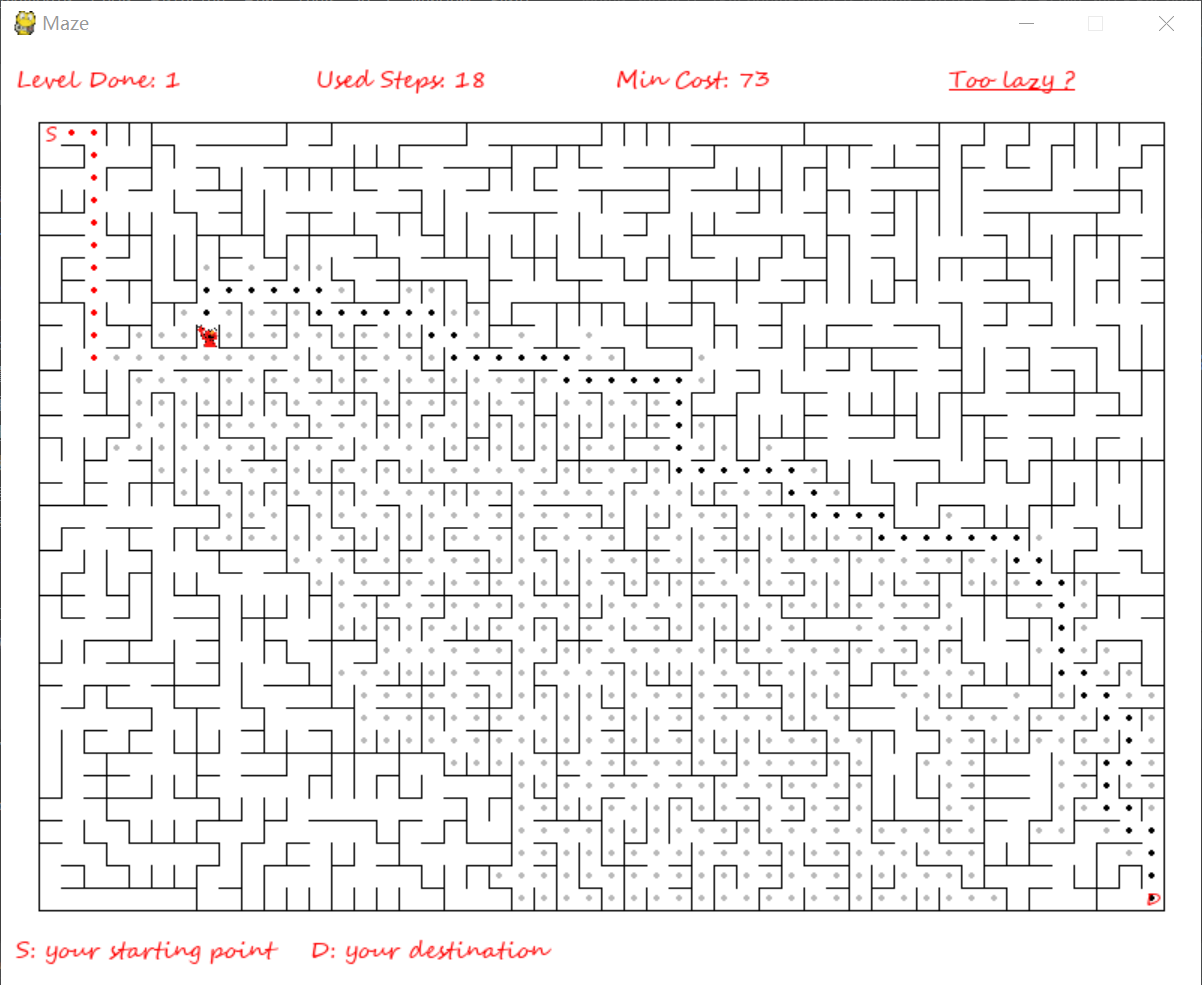
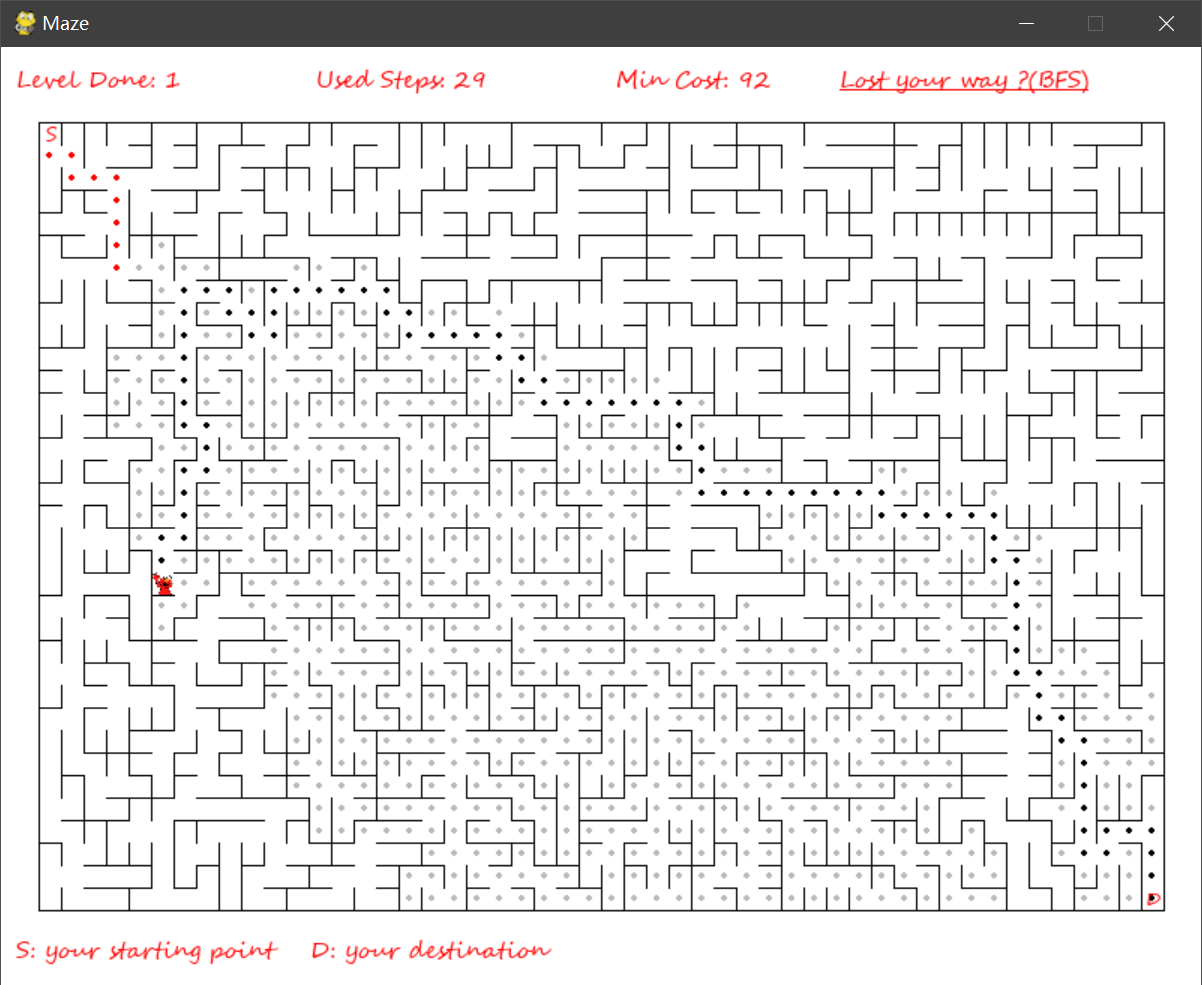
Record 13 更改描述形式 README

diff --git a/modules/misc.py b/modules/misc.py
@@ -11,6 +11,14 @@ import pygame.font
 import pygame.event
 import pygame.draw
 
+
+def read_cfg(cfg):
+    cfgs = cfg.read_cfg()
+    cfg.MAZESIZE = cfgs['MAZESIZE']
+    cfg.STARTPOINT = cfgs['STARTPOINT']
+    cfg.DESTINATION = cfgs['DESTINATION']
+
+
 '''Label: 在指定位置（中心）显示文字'''
 
 
@@ -59,14 +67,14 @@ def check_setted(cfg):
     if g:
         x, y = g.group(1), g.group(2)
         cfg['Starting point'] = [int(x), int(y)]
-        if setted[1] and setted[2] and 0 <= cfg['Starting point'][0] < cfg['Rows'] and 0 <= cfg['Starting point'][1] < \
+        if setted[1] and setted[2] and 0 < cfg['Starting point'][0] <= cfg['Rows'] and 0 < cfg['Starting point'][1] <= \
                 cfg['Cols']:
             setted[3] = True
     g = pattern.match(cfg['Destination'])
     if g:
         x, y = g.group(1), g.group(2)
         cfg['Destination'] = [int(x), int(y)]
-        if setted[1] and setted[2] and 0 <= cfg['Destination'][0] < cfg['Rows'] and 0 <= cfg['Destination'][1] < cfg[
+        if setted[1] and setted[2] and 0 < cfg['Destination'][0] <= cfg['Rows'] and 0 < cfg['Destination'][1] <= cfg[
             'Cols']:
             setted[4] = True
     return setted
@@ -100,6 +108,7 @@ def InputBox(screen, font, focus, question, ans, hint, color, position, max):
 
 
 def setting(screen, cfg):
+    read_cfg(cfg)
     # ----字体样式
     font_title = pygame.font.SysFont(cfg.FONT, 80)  # 标题字体
     font = pygame.font.SysFont(cfg.FONT2, 45)  # 输入框字体
@@ -190,6 +199,8 @@ def setting(screen, cfg):
                             (cfg.SCREENSIZE[0] - cfg.MAZESIZE[1] * cfg.BLOCKSIZE) // 2,
                             (cfg.SCREENSIZE[1] - cfg.MAZESIZE[0] * cfg.BLOCKSIZE) // 2)
                         cfg.write_cfg()  # 将新配置写入配置文件
+                        cfg.STARTPOINT = [cfg_now['Starting point'][0] - 1, cfg_now['Starting point'][1] - 1]
+                        cfg.DESTINATION = [cfg_now['Destination'][0] - 1, cfg_now['Destination'][1] - 1]
                         return key
                 # 点击标签
                 for key in labels.keys():

diff --git a/cfg.py b/cfg.py
@@ -12,13 +12,13 @@ FOREGROUND = (0, 0, 0)
 HIGHLIGHT = (255, 0, 0)
 LINE = (185, 185, 185)
 
-FPS = 15
+FPS = 30
 
 # 迷宫相关
 BLOCKSIZE = 15
 MAZESIZE = [15, 10]  # num_rows * num_cols
-STARTPOINT = [0, 0]
-DESTINATION = [14, 9]
+STARTPOINT = [1, 1]
+DESTINATION = [15, 10]
 BORDERSIZE = ((SCREENSIZE[0] - MAZESIZE[1] * BLOCKSIZE) // 2, (SCREENSIZE[1] - MAZESIZE[0] * BLOCKSIZE) // 2)
 
 '''写入配置'''

diff --git a/game.py b/game.py
@@ -154,8 +154,5 @@ def main(cfg):
 
 if __name__ == '__main__':
     # 读入配置
-    cfgs = cfg.read_cfg()
-    cfg.MAZESIZE = cfgs['MAZESIZE']
-    cfg.STARTPOINT = cfgs['STARTPOINT']
-    cfg.DESTINATION = cfgs['DESTINATION']
+    read_cfg(cfg)
     main(cfg)

diff --git a/README.md b/README.md
@@ -172,7 +172,8 @@
 ![开始界面](./resources/images/开始界面.PNG)
 ![设置界面](./resources/images/设置界面.PNG)
 ![Prim迷宫](./resources/images/Prim.PNG)
-![Prim迷宫寻路](./resources/images/寻路.PNG)
+![Prim迷宫寻路A*](./resources/images/寻路Prim_A星.PNG)
+![Prim迷宫寻路](./resources/images/寻路Prim_BFS.PNG)
 ![游戏界面](./resources/images/Play.PNG)
 ![DFS迷宫](./resources/images/DFS.PNG)
 ![DFS迷宫寻路](./resources/images/寻路DFS.PNG)
